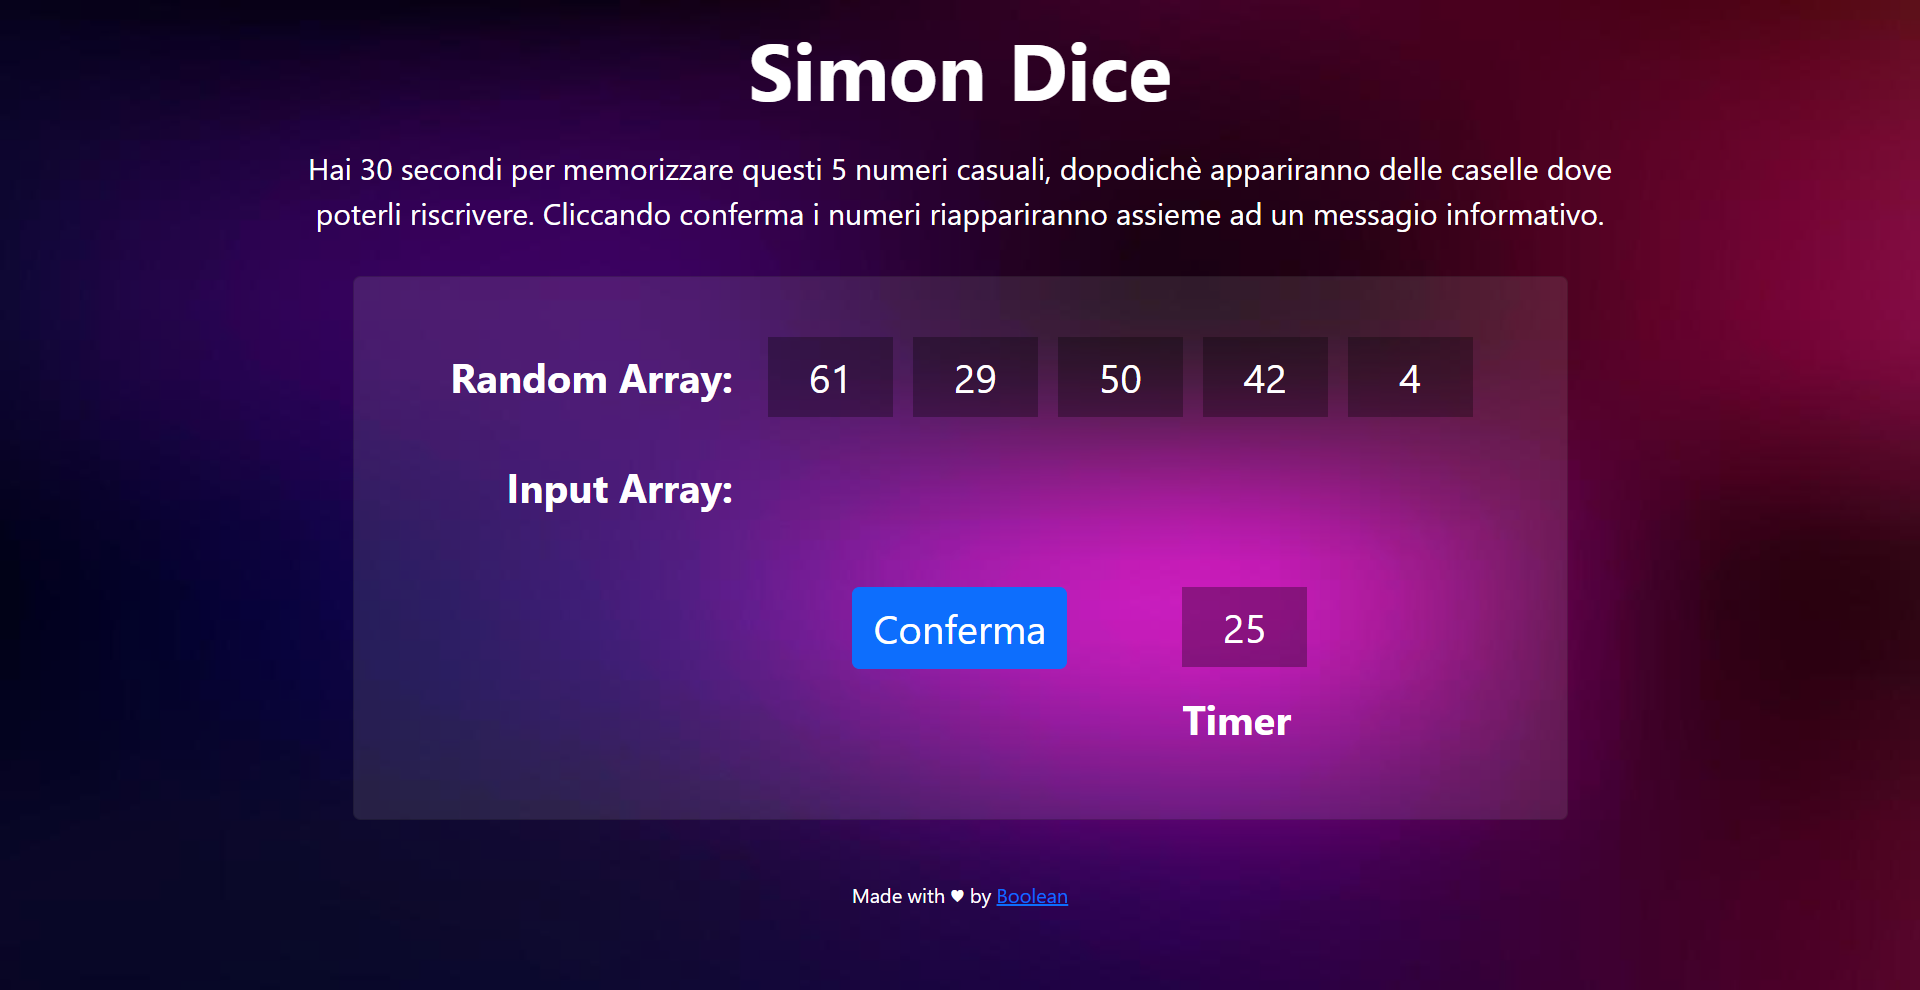
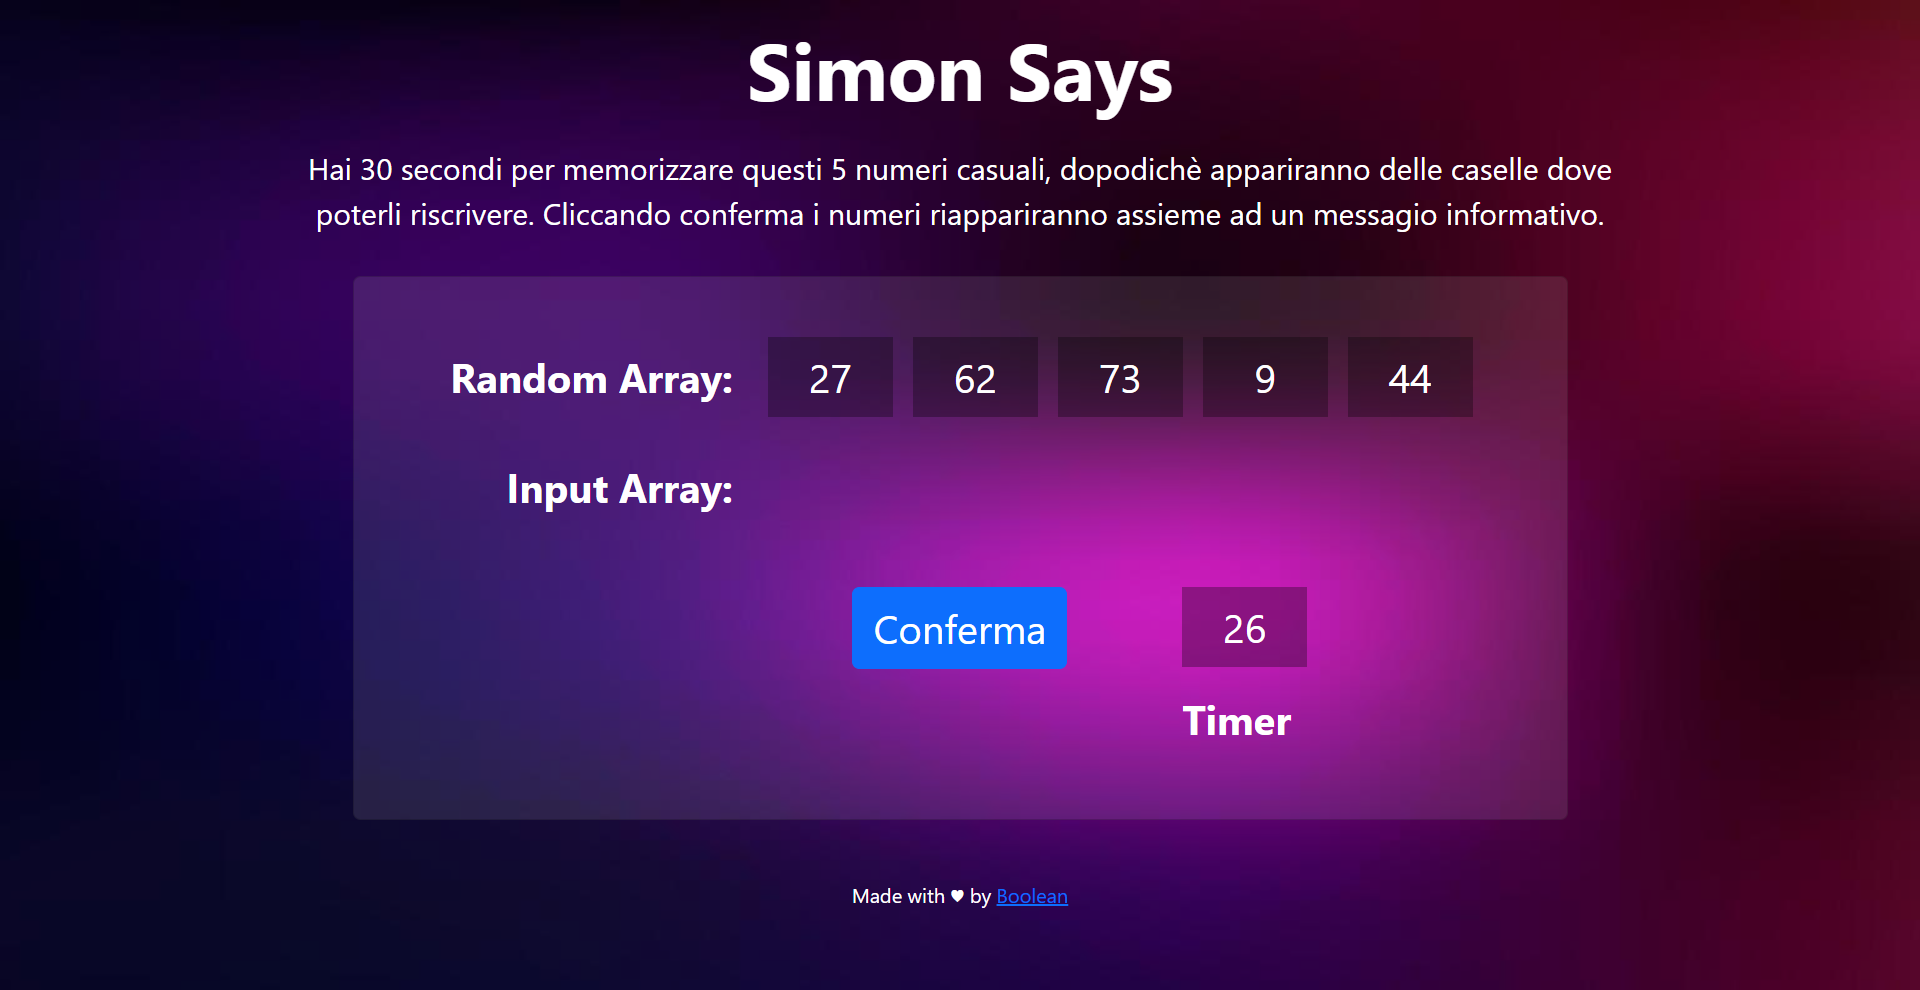
Change H1 title

diff --git a/index.html b/index.html
@@ -15,7 +15,7 @@
     <body class="text-white">
         <div class="container ">
             <header id="app_header" class="p-3 text-center col-10 m-auto">
-                <h1 class="display-3 fw-bold pb-3">Simon Dice</h1>
+                <h1 class="display-3 fw-bold pb-3">Simon Says</h1>
                 <p class="fs-4">
                     Hai 30 secondi per memorizzare questi 5 numeri casuali, dopodichè appariranno delle caselle dove poterli riscrivere.
                     Cliccando conferma i numeri riappariranno assieme ad un messagio informativo. </p>
@@ -57,7 +57,7 @@
             <!-- /#app_main -->
 
             <footer id="app_footer" class="p-5 text-center text-white">
-                <p>Made with &hearts; by <a href="#">Boolean</a></p>
+                <p>Made with &hearts; by <a href="#">Cyberfolk</a></p>
             </footer>
             <!-- /#app_footer -->
         </div>
